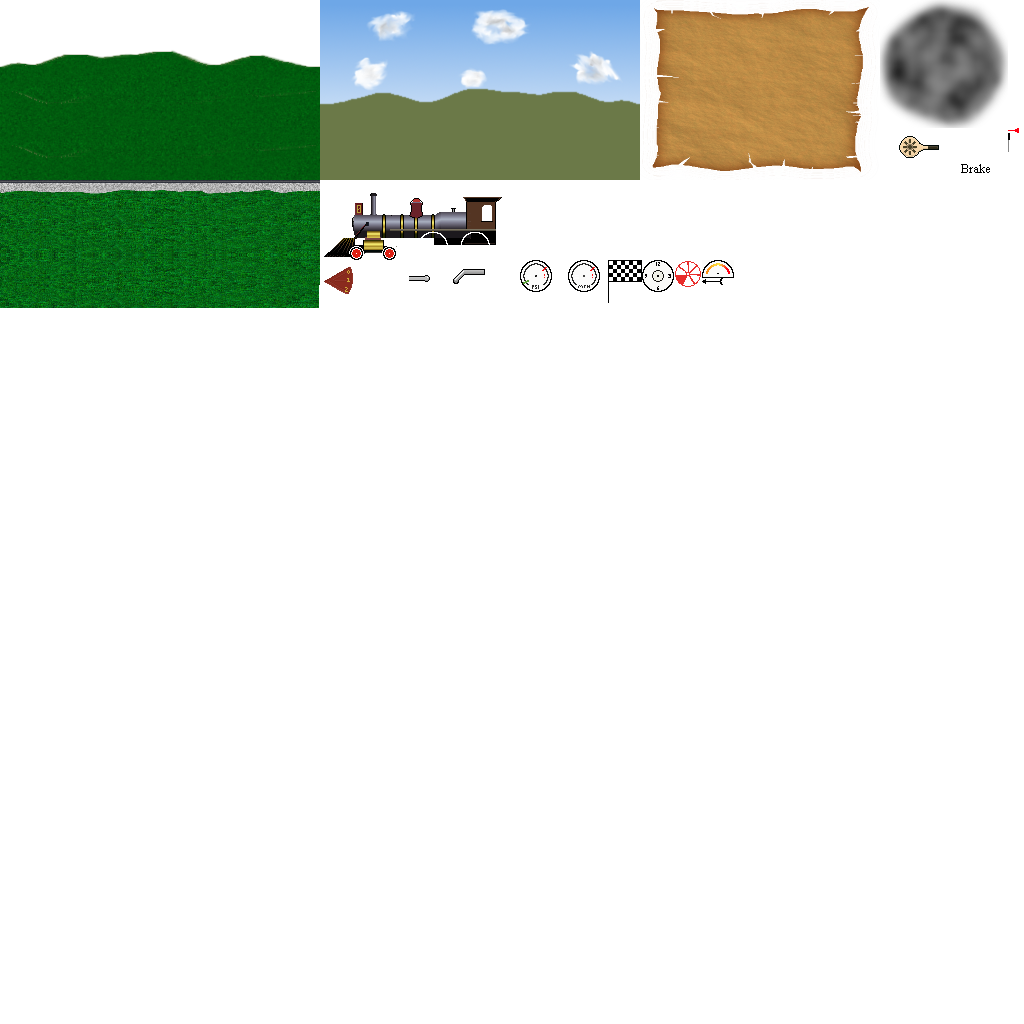
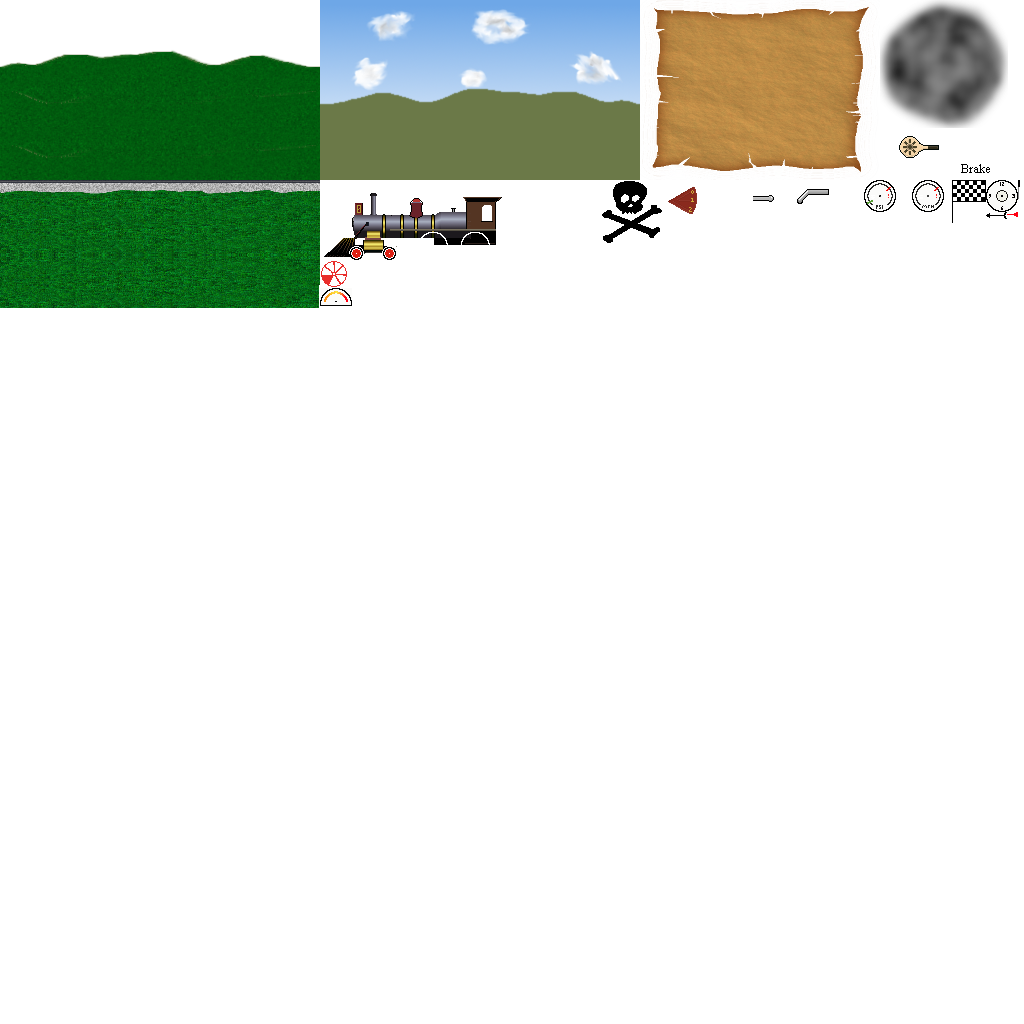
Added fail screen

diff --git a/modes.py b/modes.py
@@ -126,6 +126,10 @@ class MainMenu(Mode):
         self.frame = ui.UIElement(globals.screen_root,
                                   globals.screen_root.GetRelative(backdrop_bl),
                                   globals.screen_root.GetRelative(backdrop_tr))
+        self.skull = drawing.Quad(globals.screen_texture_buffer,tc=globals.atlas.TextureSpriteCoords('skull.png'))
+        self.skull.SetVertices(Point(128,58),Point(128+64,58+64),10.1)
+        self.skull.Disable()
+
         #tr = bl + self.parent.GetRelative(globals.screen)
         self.blurb_text = ui.TextBox(parent = self.frame,
                                      bl     = Point(0.0,0.72) ,
@@ -174,6 +178,7 @@ class MainMenu(Mode):
         self.show_main_menu()
 
     def show_main_menu(self):
+        self.skull.Disable()
         self.level_ok_button.Disable()
         self.level_back_button.Disable()
         for label in self.level_buttons:
@@ -239,6 +244,22 @@ class MainMenu(Mode):
         self.content_boxes_right[3].SetText('$ %3d.%02d' % (100 - health,0),colour=(0,0,0,1))
         self.content_boxes_right[4].SetText(' ------ ',colour=(0,0,0,1))
         self.content_boxes_right[5].SetText('$ %d.%02d'% (total,0),colour=(0,0,0,1))
+        self.level_back_button.Enable()
+
+    def level_fail(self, time_taken):
+        self.playing = False
+        self.backdrop.Enable()
+        self.parent.Disable()
+        for label in self.level_buttons:
+            label.Disable()
+        self.underline.Enable()
+        self.blurb_text.Enable()
+        self.blurb_text.SetText('Your train was destroyed!',colour=(0,0,0,1))
+        self.skull.Enable()
+        print time_taken
+
+        for box in itertools.chain(self.content_boxes,self.content_boxes_right):
+            box.Disable()
         self.level_back_button.Enable()
 
 

diff --git a/game_view.py b/game_view.py
@@ -567,6 +567,8 @@ class Train(object):
         total = over_speed + over_pressure + braking
         self.parent.shake = min(total, 10)
         self.health -= total*elapsed
+        if self.health <= 0:
+            self.parent.mode.level_fail()
 
     def set_brake(self, amount):
         self.braking = amount
@@ -857,7 +859,7 @@ class GameView(ui.RootElement):
         self.mode.KeyDown(key)
 
     def KeyUp(self,key):
-        self.mode.level_complete(self.train.coal_used, self.train.health, globals.time - self.start_time)
+        self.mode.level_fail(globals.time - self.start_time)
         if key == pygame.K_DELETE:
             if self.music_playing:
                 self.music_playing = False
